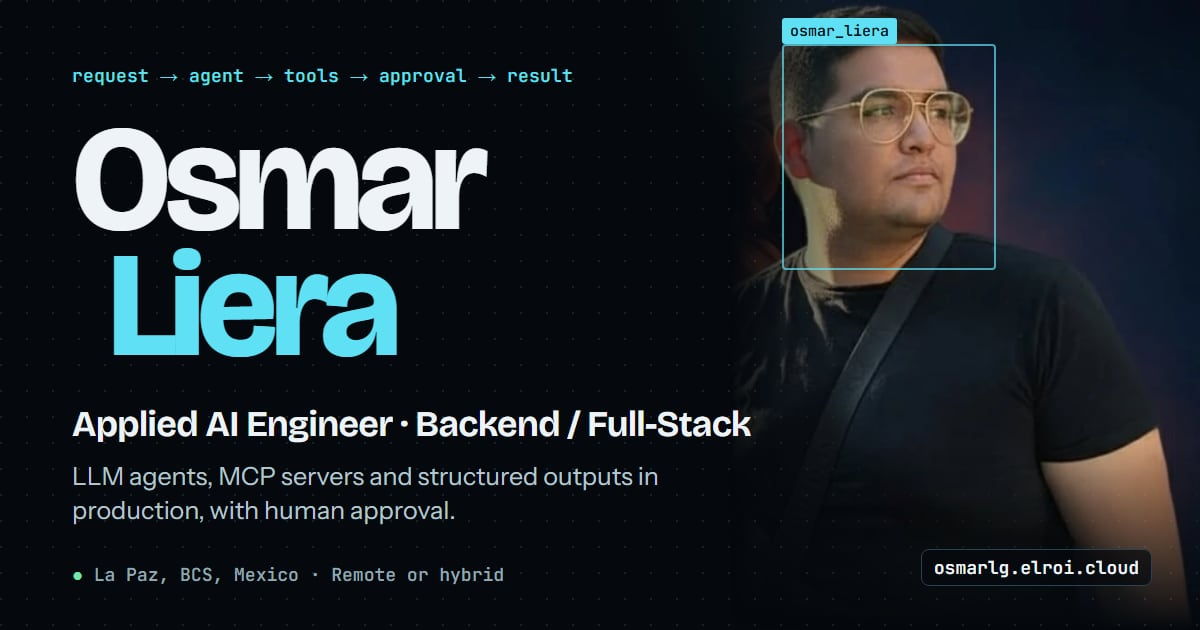
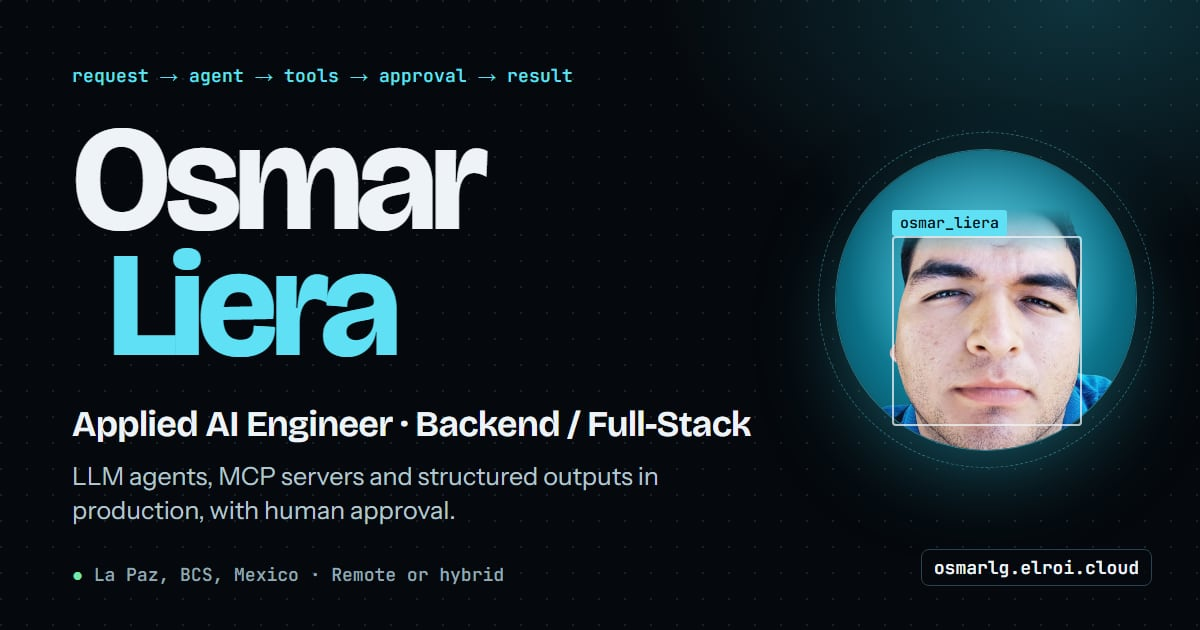
feat: use the new cut-out profile photo in the hero and OG images
- Replace the lion composite with osmar-perfil (501x498, transparent
  background), shown at 220 CSS px over a brand-colored disc, never
  upscaled; Astro serves AVIF/WebP at 220/440 px with dimensions.
- Adapt the detection frame to the new face position and keep the
  run card from covering the photo.
- JSON-LD image now points to /images/osmar-liera-perfil.jpg (the
  cut-out over the brand surface); the old URL redirects to it.
- Regenerate og-es.jpg and og-en.jpg with the new photo.
- Update the photo alt text in both languages.

Changed region(s): [[0.6167, 0.0, 1.0, 0.9651], [0.8325, 0.0, 1.0, 0.0905]]

diff --git a/src/i18n/en.ts b/src/i18n/en.ts
@@ -78,7 +78,7 @@ const en: Dictionary = {
     ctaCases: 'See AI case studies',
     ctaCv: 'View résumé',
     ctaWhatsapp: 'WhatsApp',
-    photoAlt: 'Portrait of Osmar Liera wearing glasses and a black T-shirt',
+    photoAlt: 'Close-up portrait of Osmar Liera in a blue polo shirt',
     detectionLabel: 'osmar_liera',
   },
   run: {

diff --git a/src/i18n/es.ts b/src/i18n/es.ts
@@ -78,7 +78,7 @@ const es: Dictionary = {
     ctaCases: 'Ver casos de IA',
     ctaCv: 'Ver CV',
     ctaWhatsapp: 'WhatsApp',
-    photoAlt: 'Retrato de Osmar Liera con lentes y camiseta negra',
+    photoAlt: 'Retrato de Osmar Liera en primer plano, con playera tipo polo azul',
     detectionLabel: 'osmar_liera',
   },
   run: {

diff --git a/src/i18n/profile.ts b/src/i18n/profile.ts
@@ -14,7 +14,7 @@ export const person = {
   city: 'La Paz',
   region: 'Baja California Sur',
   country: 'MX',
-  image: `${SITE_URL}/images/osmar-liera.jpg`,
+  image: `${SITE_URL}/images/osmar-liera-perfil.jpg`,
 } as const;
 
 export const whatsappHref = (message: string): string =>
